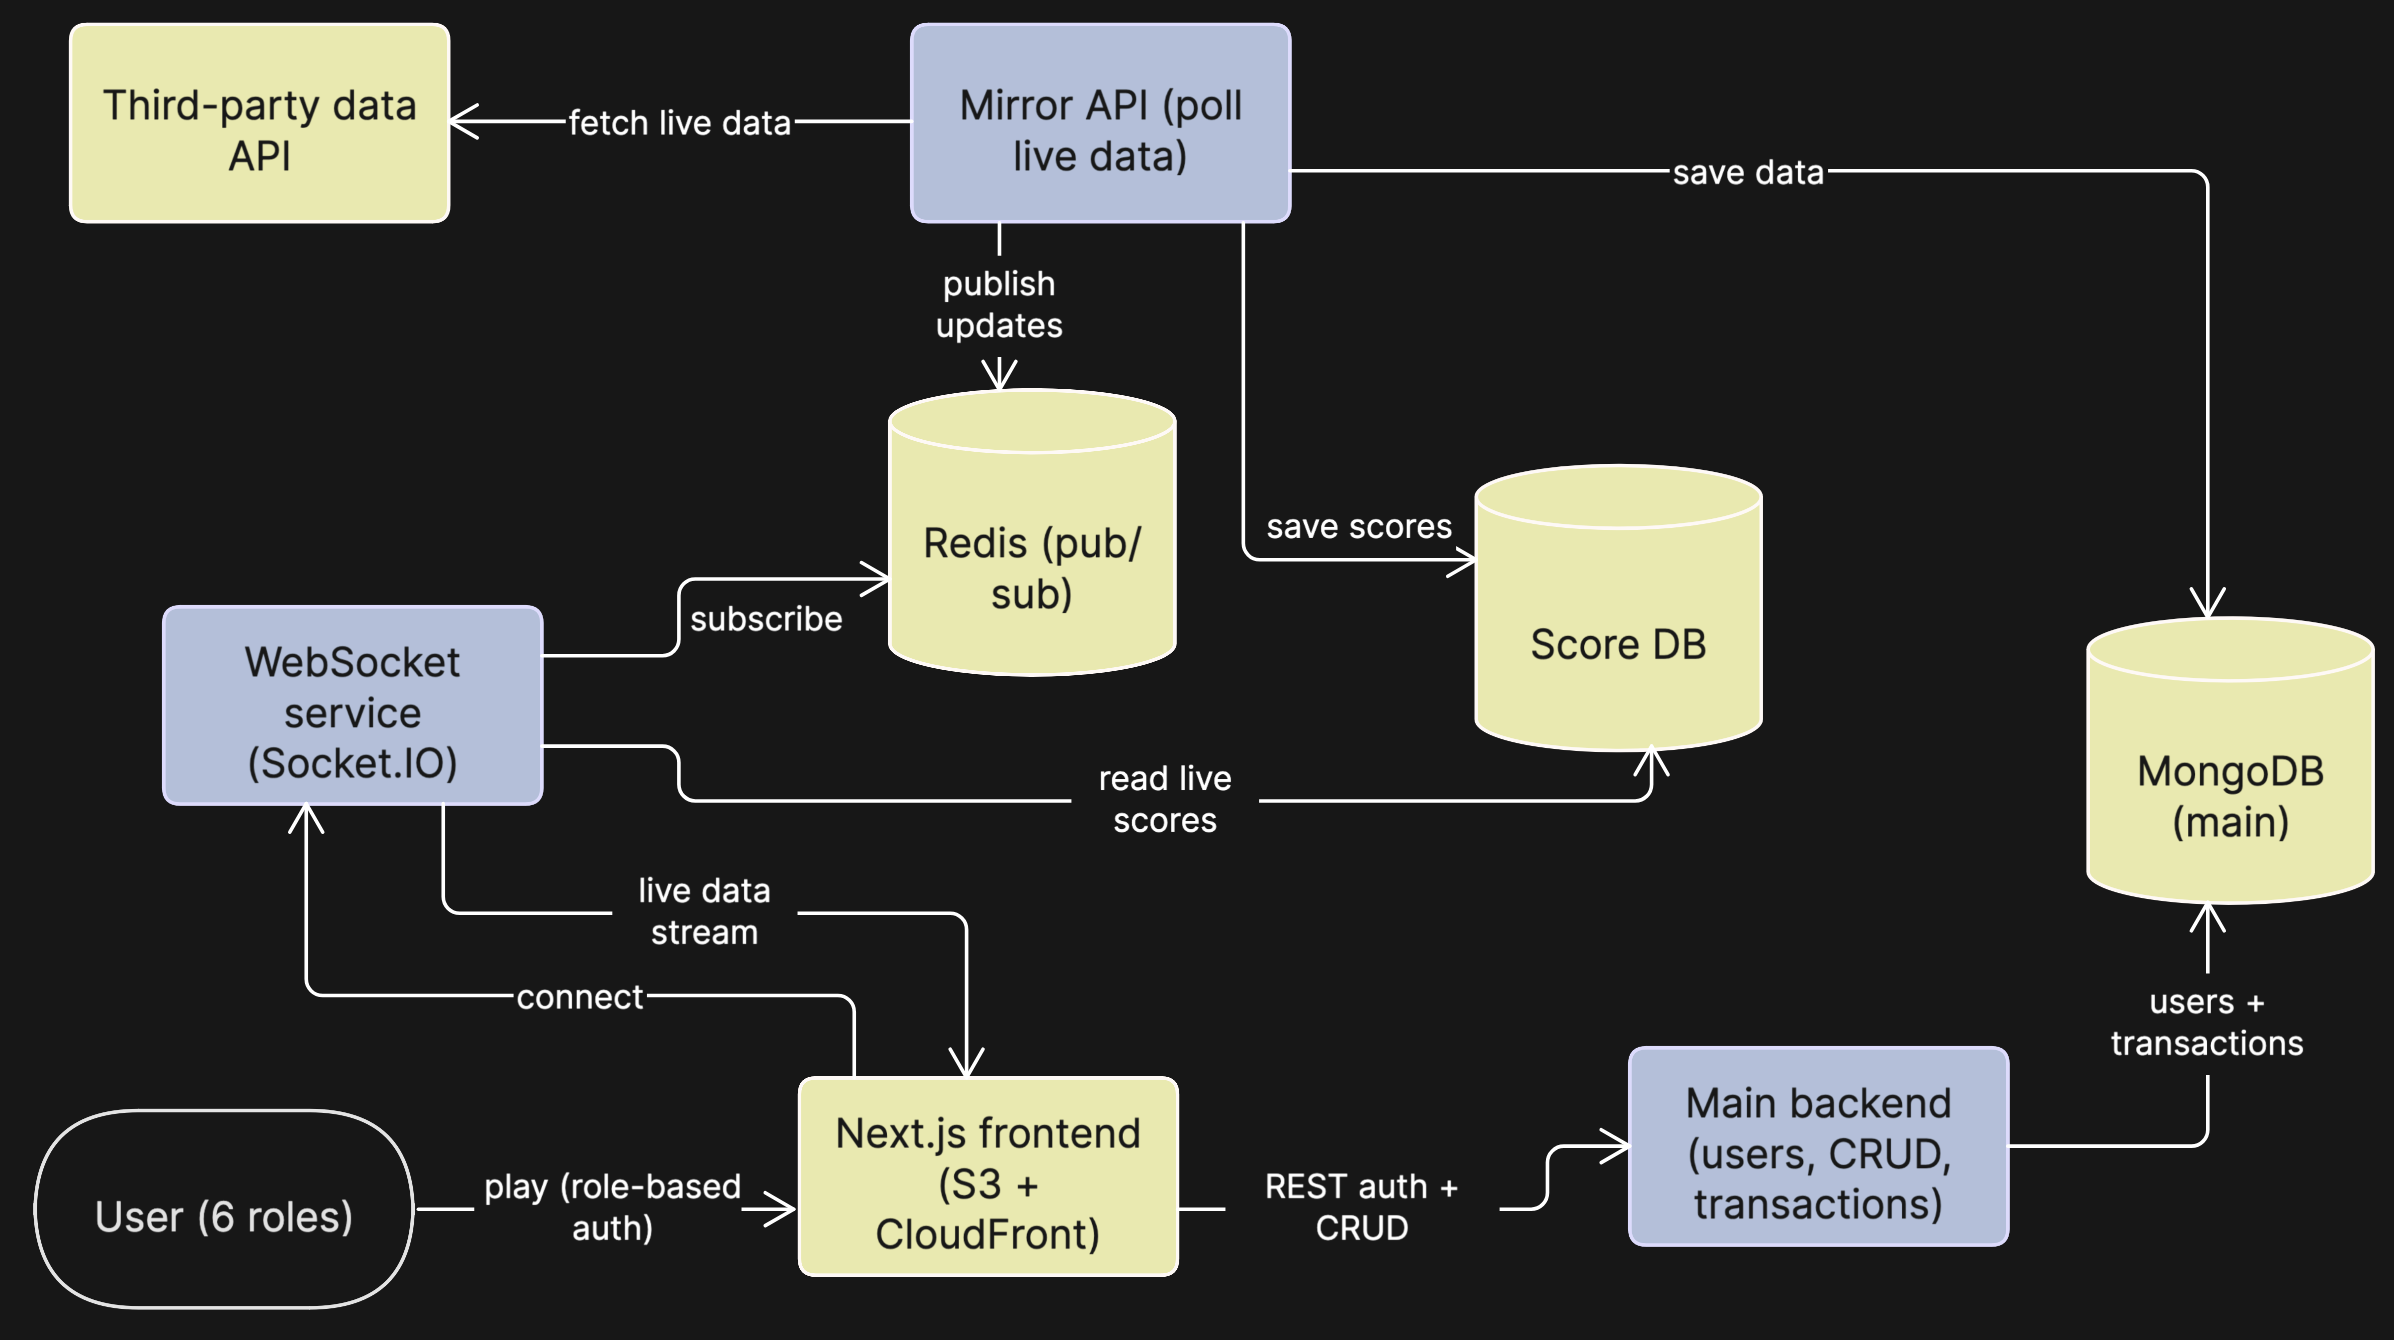
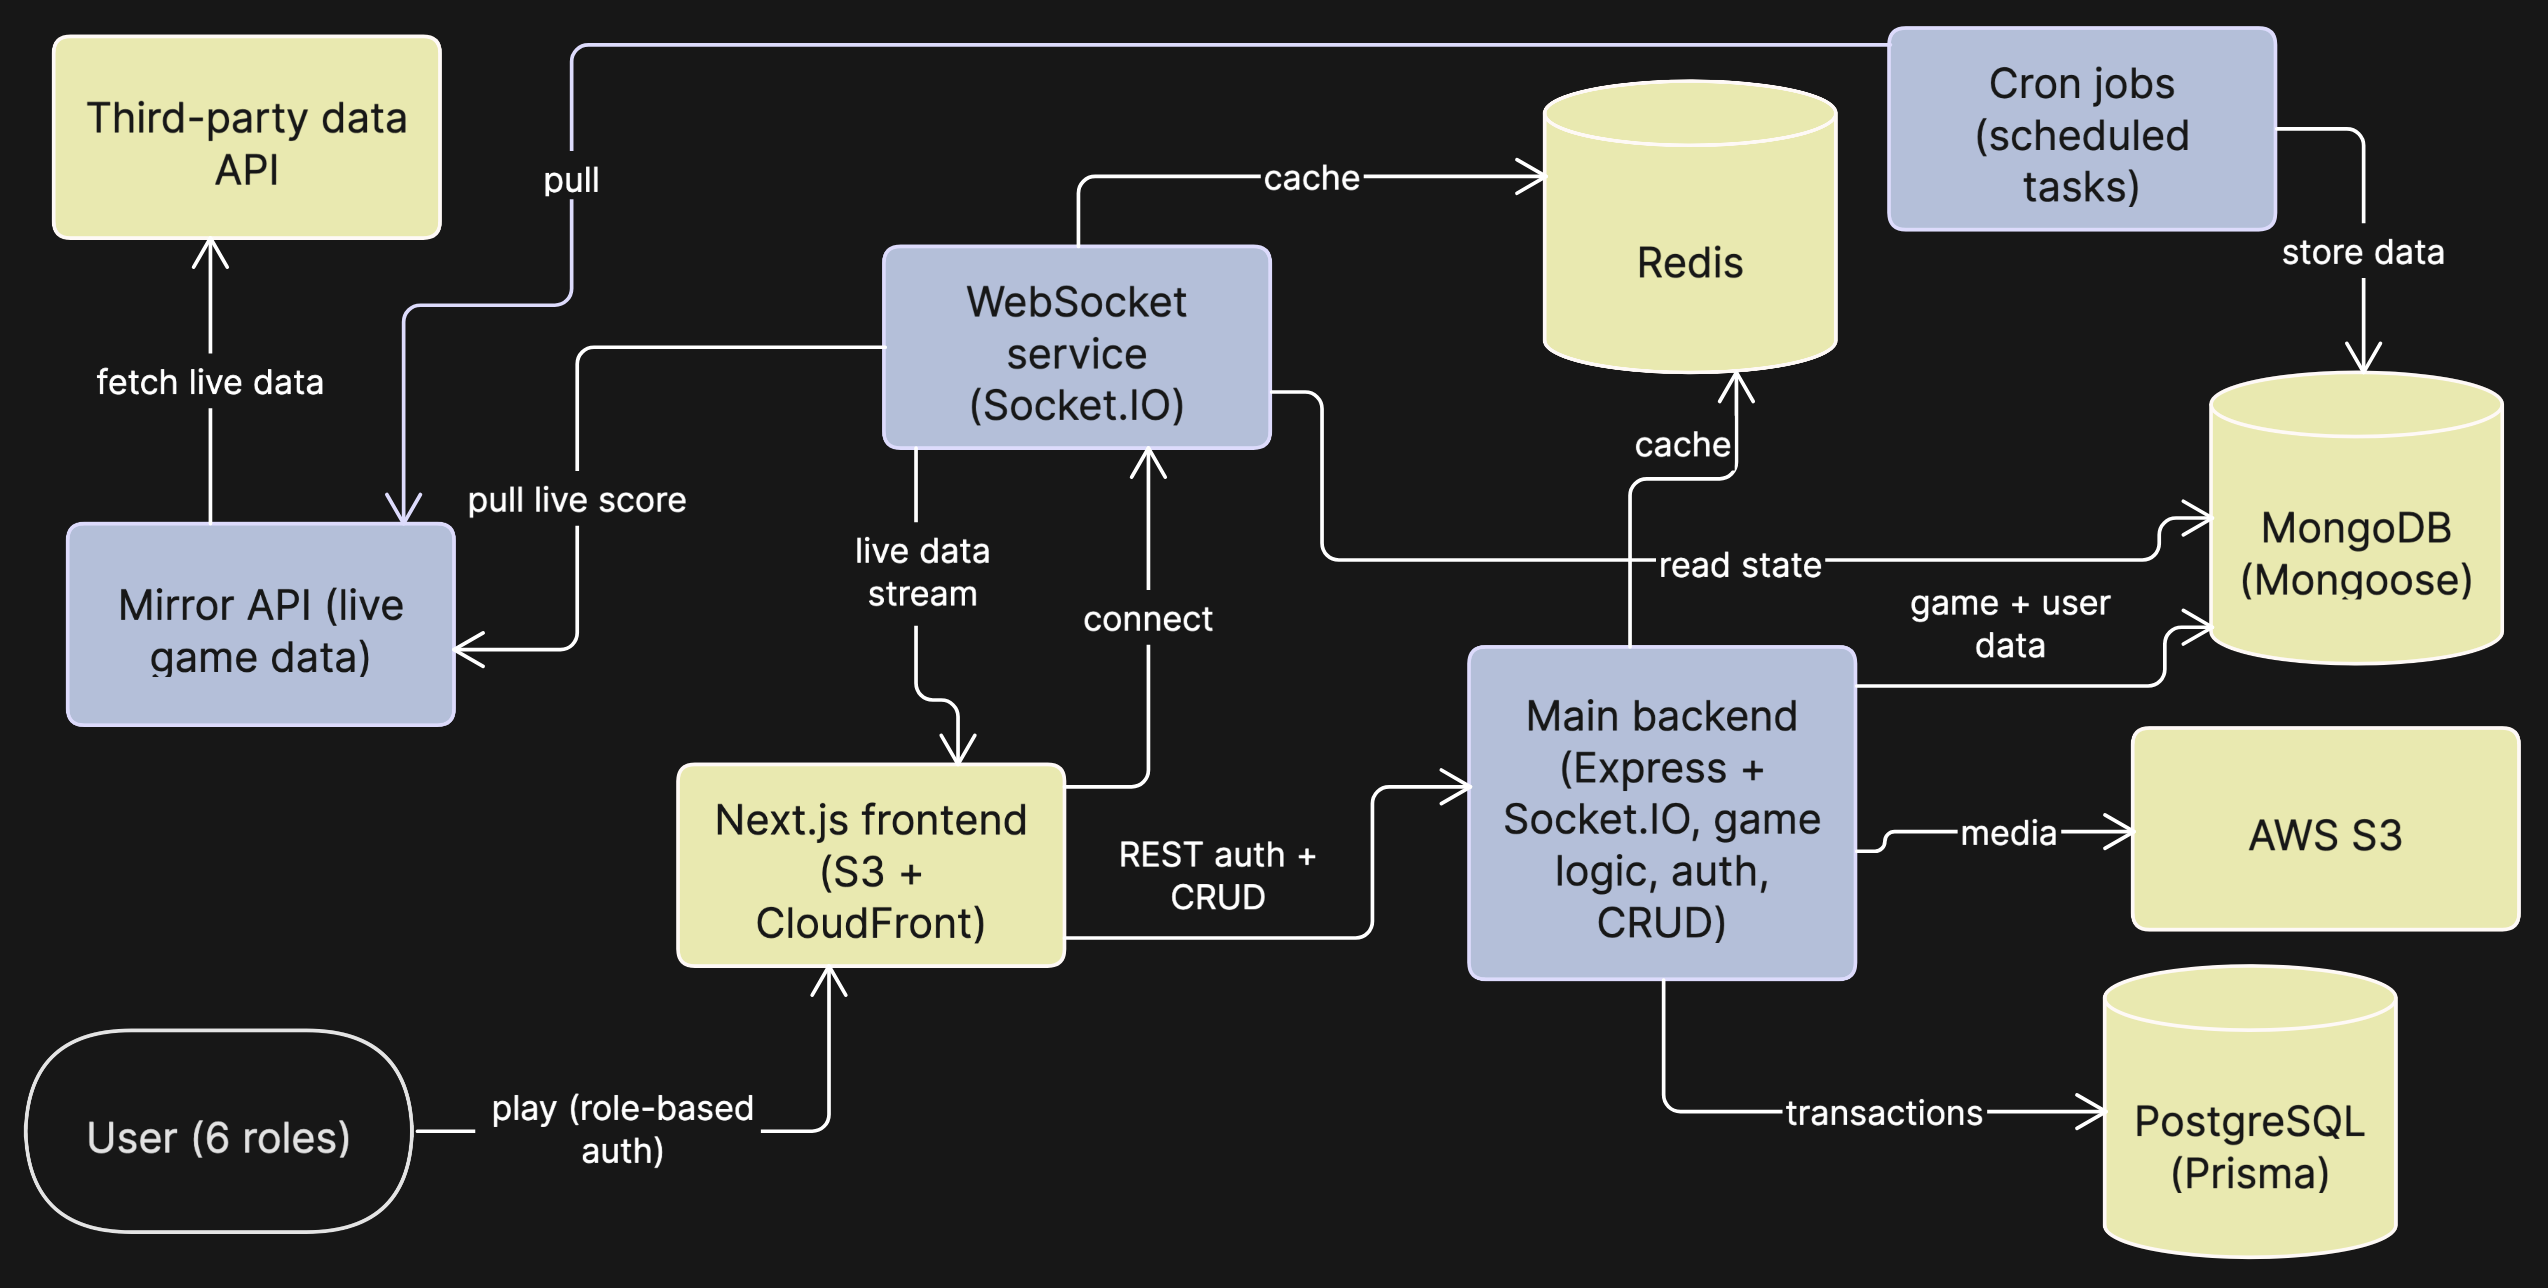
feat: update project architecture descriptions and add Chrome Extension skill

diff --git a/src/data/project.ts b/src/data/project.ts
@@ -55,7 +55,7 @@ export const highlightedProjects: HighlightedProject[] = [
     approach:
       'Built a multi-stage booking-broadcast engine that matches service bookings to workers through a funnel of coverage-area and 25 km Haversine-distance filters, so each job reaches only eligible, nearby workers. Designed a location-based dynamic pricing system that resolves the best price through a Village to Region to District to State to global cascade (most-specific wins), letting admins set service prices at any geographic tier. Implemented a multi-role system (farmer / worker / distributor / admin) with scoped access, plus a multi-language UI backed by on-the-fly address translation and SMS/OTP auth.',
     architecture:
-      'Hardened API-key and DB configuration to environment and secret-based config, and shipped via a production Docker deployment pipeline.',
+      'A Laravel monolith exposing a REST API to both the Blade and Alpine web app and the Android client, with Sanctum and SMS/OTP auth scoped across the four roles. It persists to MySQL, sends push notifications through Firebase Cloud Messaging, and resolves geography with the Google Maps and OpenStreetMap APIs. API keys and DB config were moved to environment and secret-based config, containerised with Docker behind Caddy, and shipped through a production deployment pipeline.',
     architectureImage: graminxHld,
     liveLink: {
       web: 'https://graminx.com/',
@@ -101,7 +101,7 @@ export const highlightedProjects: HighlightedProject[] = [
         skills.prom,
         skills.grafana
       ],
-      tools: [skills.puppeteer]
+      tools: [skills.puppeteer, skills.chromeExt]
     },
     createdAt: '2025-09'
   },
@@ -153,7 +153,7 @@ export const highlightedProjects: HighlightedProject[] = [
     approach:
       'The heart of this project was writing the complex real-time gaming logic and keeping live data in sync across all clients. I set up role-based authentication for 6 roles, streamed live third-party data to users over WebSockets, and handled all the user CRUD and transaction logic in the main backend.',
     architecture:
-      'Split into 3 microservices. Mirror API fetches live data from a third-party API and saves it to the main db and a score db, the Websocket service is what the frontend connects to for live data, and the main backend handles everything else (users and all other CRUD). Deployed on AWS (EC2, S3, CloudFront) with Docker containerisation, shipped through GitHub Actions.',
+      'Split into separate services. A stateless Mirror API proxies a paid third-party feed for live cricket and casino data. A cron service polls the Mirror API and stores matches and series in MongoDB, flipping status to live. The WebSocket service pulls live scores and fancy odds from the Mirror API, reads match data from MongoDB, caches in Redis, and streams to the frontend. The main backend (Express + Socket.IO) handles game logic, auth, users and all CRUD, persisting to MongoDB and PostgreSQL (Prisma) with media on AWS S3. Deployed on AWS (EC2, S3, CloudFront) with Docker containerisation, shipped through GitHub Actions.',
     architectureImage: livegameArchitecture,
     techStack: {
       frontend: [
@@ -168,7 +168,7 @@ export const highlightedProjects: HighlightedProject[] = [
         skills.zod
       ],
       backend: [skills.node, skills.express, skills.socketio],
-      database: [skills.mongo, skills.redis, skills.prisma],
+      database: [skills.mongo, skills.pg, skills.redis, skills.prisma],
       infra: [skills.aws, skills.docker, skills.gha]
     },
     createdAt: '2024-05'
@@ -323,6 +323,7 @@ export const archivedProjects: Project[] = [
     usedBy: '4 friends',
     techStack: [
       skills.plasmo,
+      skills.chromeExt,
       skills.ts,
       skills.react,
       skills.tw,

diff --git a/src/data/skill.ts b/src/data/skill.ts
@@ -101,6 +101,7 @@ export const skills = {
   puppeteer: 'Puppeteer',
   git: 'Git',
   plasmo: 'Plasmo',
+  chromeExt: 'Chrome Extension',
   winston: 'Winston',
   stripe: 'Stripe',
   razorpay: 'Razorpay',
